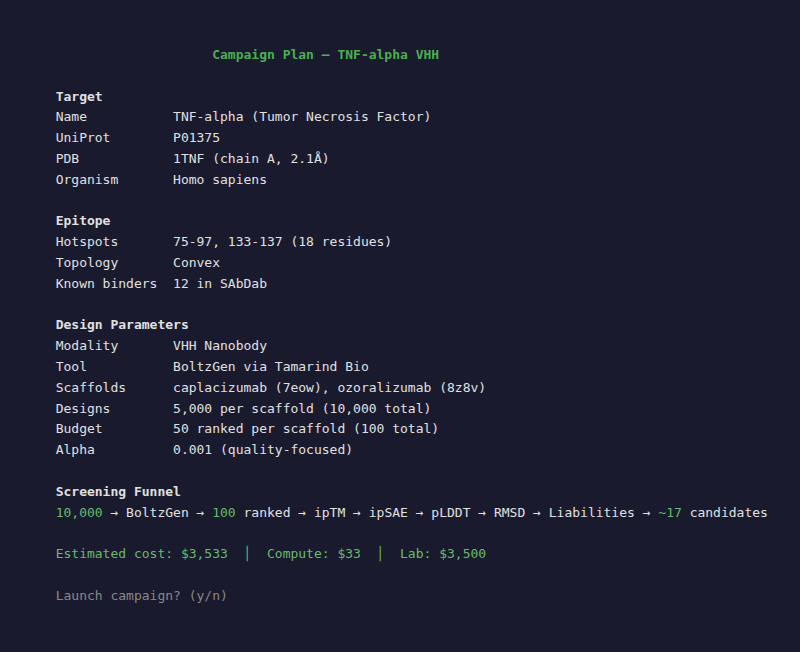
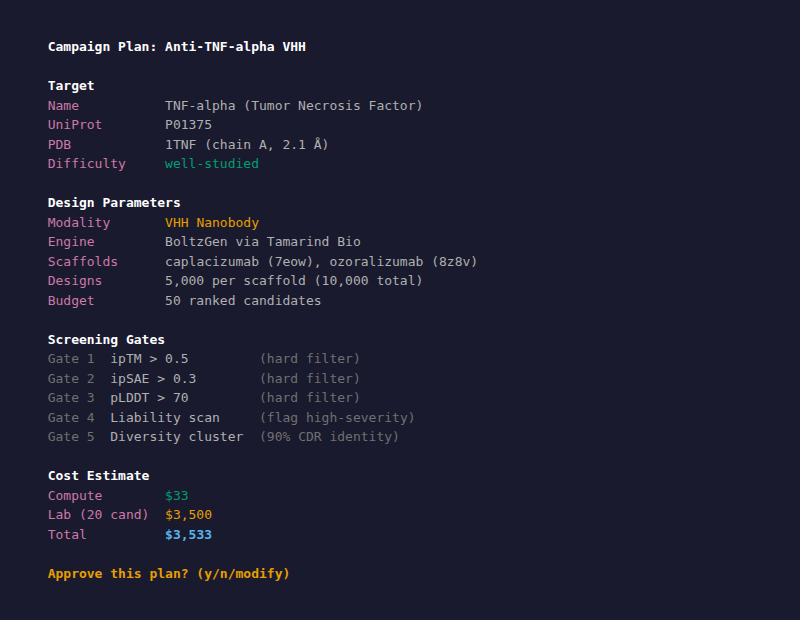
docs: updated terminal screenshots with Okabe-Ito theme and new UI
Generated HTML terminal mockups of 5 key TUI screens and screenshotted
them with Playwright. Uses Okabe-Ito colorblind-safe palette (#56B4E9
primary, #E69F00 accent, #009E73 success, #D55E00 error, #CC79A7 labels)
on #1A1A2E background with JetBrains Mono font.

New screenshots:
- startup.png: Banner with campaign menu and mode selector
- research.png: Tool activity panel during target research
- campaign-plan.png: Structured plan with cost estimate
- results-table.png: Ranked designs with screening status
- lab-approval.png: Triple-gated lab submission with confirmation code
- hero.png: Startup screen used as README hero image

Updated README Screenshots section to reference all new screens.

diff --git a/README.md b/README.md
@@ -584,15 +584,19 @@ proteus/
 ## Screenshots
 
 <p align="center">
-  <img src="docs/screenshots/campaign-plan.png" alt="Campaign planning with target research and epitope analysis" width="700">
+  <img src="docs/screenshots/research.png" alt="Target research with tool activity panel showing UniProt, PDB, and SAbDab queries" width="700">
 </p>
 
 <p align="center">
-  <img src="docs/screenshots/results-table.png" alt="Ranked results table with ipSAE, ipTM, pLDDT, RMSD scores" width="700">
+  <img src="docs/screenshots/campaign-plan.png" alt="Campaign plan with target info, design parameters, screening gates, and cost estimate" width="700">
 </p>
 
 <p align="center">
-  <img src="docs/screenshots/cost-breakdown.png" alt="Campaign cost breakdown by compute and lab testing" width="700">
+  <img src="docs/screenshots/results-table.png" alt="Ranked results table with ipSAE, ipTM, pLDDT scores and pass/fail status" width="700">
+</p>
+
+<p align="center">
+  <img src="docs/screenshots/lab-approval.png" alt="Triple-gated lab submission approval with confirmation code" width="700">
 </p>
 
 ## Contributing